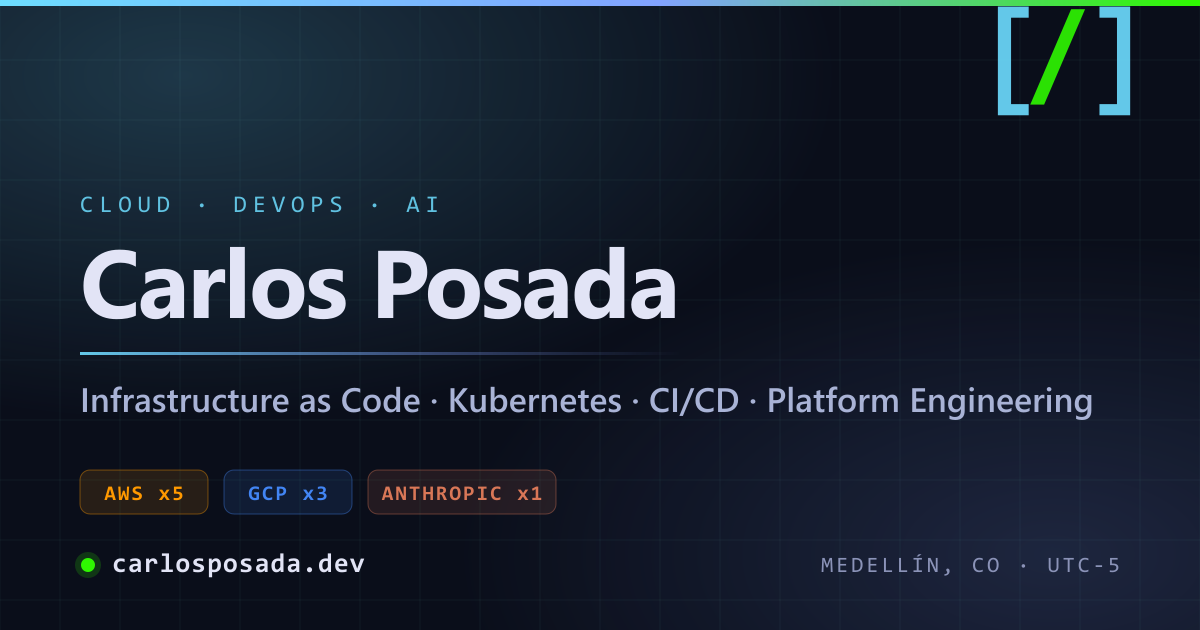
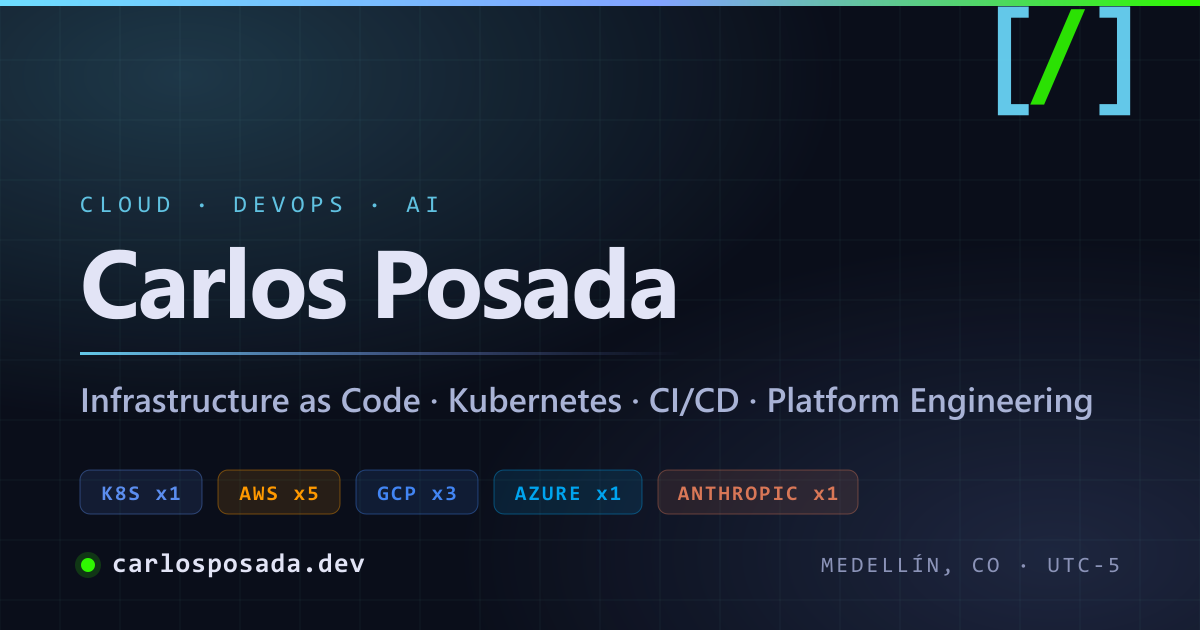
feat: add KCNA and lead the credential wall with the Kubernetes track
Kubernetes and Cloud Native Associate (Linux Foundation), earned September
2026. New issuer group placed first in CERTIFICATIONS — groups render in
the order issuers first appear, so Kubernetes now opens the wall.

Brand colour #5B8DEF, a lightened Kubernetes blue. The official Linux
Foundation hex (#003778) is 1.59:1 against the surface and even Kubernetes
blue (#326CE5) only reaches 4.05:1; the group label is 16px bold, which
WCAG does not count as large text, so it needs 4.5:1. This one is 5.96:1.

Adds a Kubestronaut progress chip: ISSUER_TRACKS declares programmes that
have a goal, and the group header renders an icon, a progress bar and
earned/total computed from the data. Nothing says "1/5" by hand — passing
CKA updates it on its own. The four remaining exams (CKA, CKAD, KCSA, CKS)
join PLANNED_CERTIFICATIONS as ghost cards, the same treatment the
Anthropic track already had.

Two things this uncovered:

- The documented Credly recipe was wrong. It said to build the badge URL
  with a /blob suffix, but KCNA 302s to a 403 there. The real rule is to
  strip the linkedin_thumb_ prefix from the og:image filename and keep
  whatever remains — KCNA_badge.png in this case. CLAUDE.md corrected.
- The OG image had been stale since AZ-104: the cert strip in
  generate-og-image.mjs is hardcoded and was never regenerated, so every
  social preview since 2026-08-15 was missing Microsoft. The strip is now
  a CERT_STRIP array with computed positions that throws if it no longer
[…]

Changed region(s): [[0.0617, 0.7238, 0.7092, 0.8444]]

diff --git a/src/utils/constants.ts b/src/utils/constants.ts
@@ -145,7 +145,14 @@ export interface Certification {
   title: string;
   /** Short credential code shown as badge label */
   code: string;
-  issuer: "AWS" | "Google Cloud" | "Anthropic" | "Microsoft" | "CNCF" | "HashiCorp";
+  issuer:
+    | "AWS"
+    | "Google Cloud"
+    | "Anthropic"
+    | "Microsoft"
+    | "Linux Foundation"
+    | "CNCF"
+    | "HashiCorp";
   /** Public URL where the credential can be verified */
   credentialUrl: string;
   /** Official badge image URL (issuer CDN) */
@@ -171,6 +178,9 @@ const AWS_SVG = "M6.763 10.036c0 .296.032.535.088.71.064.176.144.368.256.576.04.
 // Anthropic SVG path (SimpleIcons)
 const ANTHROPIC_SVG =
   "M17.3041 3.541h-3.6718l6.696 16.918H24Zm-10.6082 0L0 20.459h3.7442l1.3693-3.5527h7.0052l1.3693 3.5528h3.7442L10.5363 3.5409Zm-.3712 10.2232 2.2914-5.9456 2.2914 5.9456Z";
+// Linux Foundation SVG path (SimpleIcons)
+const LINUX_FOUNDATION_SVG =
+  "M4.8 19.2h9.6V24H0V9.6h4.8v9.6zM0 0v7.2h4.8V4.822h14.4V19.2h-2.4V24H24V0H0z";
 // Microsoft SVG path (SimpleIcons) — los cuatro cuadrados del logo
 const MICROSOFT_SVG =
   "M11.4 24H0V12.6h11.4V24zM24 24H12.6V12.6H24V24zM11.4 11.4H0V0h11.4v11.4zm12.6 0H12.6V0H24v11.4z";
@@ -178,6 +188,22 @@ const MICROSOFT_SVG =
 const GCP_SVG = "M12.19 2.38a9.344 9.344 0 0 0-9.234 6.893c.053-.02-.055.013 0 0-3.875 2.551-3.922 8.11-.247 10.941l.006-.007-.007.03a6.717 6.717 0 0 0 4.077 1.356h5.173l.03.03h5.192c6.687.053 9.376-8.605 3.835-12.35a9.365 9.365 0 0 0-2.821-4.552l-.043.043.006-.05A9.344 9.344 0 0 0 12.19 2.38zm-.358 4.146c1.244-.04 2.518.368 3.486 1.15a5.186 5.186 0 0 1 1.862 4.078v.518c3.53-.07 3.53 5.262 0 5.193h-5.193l-.008.009v-.04H6.785a2.59 2.59 0 0 1-1.067-.23h.001a2.597 2.597 0 1 1 3.437-3.437l3.013-3.012A6.747 6.747 0 0 0 8.11 8.24c.018-.01.04-.026.054-.023a5.186 5.186 0 0 1 3.67-1.69z";
 
 export const CERTIFICATIONS: Certification[] = [
+  // ── Linux Foundation ─────────────────────────────────────
+  // Primera del array a propósito: los grupos se pintan en el orden en que
+  // aparece cada emisor, y Kubernetes es el track que se quiere destacar.
+  {
+    id: "lf-kcna",
+    title: "Kubernetes and Cloud Native Associate",
+    code: "KCNA",
+    issuer: "Linux Foundation",
+    credentialUrl: "https://www.credly.com/badges/ce1fb077-5951-494d-89e7-d9c738f1ff95/public_url",
+    // Ojo: esta insignia NO responde con el sufijo /blob (302 → 403).
+    // Hay que conservar el nombre real del archivo. Ver CLAUDE.md.
+    badgeUrl:
+      "https://images.credly.com/size/680x680/images/f28f1d88-428a-47f6-95b5-7da1dd6c1000/KCNA_badge.png",
+    accentColor: "#5B8DEF",
+    svgPath: LINUX_FOUNDATION_SVG,
+  },
   // ── AWS ──────────────────────────────────────────────────
   {
     id: "aws-saa",
@@ -304,6 +330,37 @@ export interface PlannedCertification {
 }
 
 export const PLANNED_CERTIFICATIONS: PlannedCertification[] = [
+  // Linux Foundation — Kubestronaut: exige las 5 certificaciones de Kubernetes
+  // del CNCF (KCNA ya obtenida). Orden real de estudio: CKS requiere una CKA
+  // vigente, así que va al final.
+  {
+    id: "lf-cka",
+    title: "Certified Kubernetes Administrator",
+    code: "CKA",
+    issuer: "Linux Foundation",
+    accentColor: "#5B8DEF",
+  },
+  {
+    id: "lf-ckad",
+    title: "Certified Kubernetes Application Developer",
+    code: "CKAD",
+    issuer: "Linux Foundation",
+    accentColor: "#5B8DEF",
+  },
+  {
+    id: "lf-kcsa",
+    title: "Kubernetes and Cloud Native Security Associate",
+    code: "KCSA",
+    issuer: "Linux Foundation",
+    accentColor: "#5B8DEF",
+  },
+  {
+    id: "lf-cks",
+    title: "Certified Kubernetes Security Specialist",
+    code: "CKS",
+    issuer: "Linux Foundation",
+    accentColor: "#5B8DEF",
+  },
   // Anthropic — Claude Certified track (4 exams, Foundations already earned)
   {
     id: "anthropic-cc-associate",
@@ -683,7 +740,7 @@ export interface NowSection {
 
 export const NOW = {
   /** Fecha de la última revisión de esta página — formato YYYY-MM-DD */
-  updated: "2026-08-06",
+  updated: "2026-09-12",
   intro:
     "A snapshot of what I'm building, breaking and learning right now. Inspired by nownownow.com — updated every few weeks, not a changelog.",
   sections: [
@@ -709,6 +766,11 @@ export const NOW = {
       title: "Learning",
       accent: "secondary",
       items: [
+        {
+          label: "Kubernetes, deliberately and in depth",
+          detail:
+            "Working through the Kubestronaut track — KCNA done, CKA next. Kubernetes is what has been opening doors, so it gets the hours.",
+        },
         {
           label: "EKS across its three node modes",
           detail: "Managed node groups, self-managed nodes and Auto Mode — comparing cost, control and upgrade pain.",
@@ -741,6 +803,10 @@ export const NOW = {
       title: "Next up",
       accent: "primary",
       items: [
+        {
+          label: "CKA, then the rest of the Kubestronaut five",
+          detail: "KCNA earned September 2026. CKA, CKAD, KCSA and CKS still to go.",
+        },
         {
           label: "The remaining Claude Certified track",
           detail: "Associate, Developer and Architect — Professional. Foundations done in July 2026.",

diff --git a/CLAUDE.md b/CLAUDE.md
@@ -172,20 +172,31 @@ La página pública de Credly es una SPA: el `<img>` no se ve en el HTML plano, 
 curl -sL "https://www.credly.com/badges/<BADGE-ID>/public_url" | grep -o 'og:image" content="[^"]*"'
 ```
 
-Del resultado (`https://images.credly.com/images/<IMAGE-ID>/linkedin_thumb_blob`) se
-toma el `<IMAGE-ID>` y se construye el `badgeUrl` en alta resolución:
+El `og:image` tiene la forma `https://images.credly.com/images/<IMAGE-ID>/linkedin_thumb_<ARCHIVO>`.
+**Quitar el prefijo `linkedin_thumb_` y conservar `<ARCHIVO>` tal cual** — es la parte que
+más se falla:
 
 ```
-https://images.credly.com/size/680x680/images/<IMAGE-ID>/blob
+https://images.credly.com/size/680x680/images/<IMAGE-ID>/<ARCHIVO>
 ```
 
-Ojo: algunos badges responden `403` con el sufijo `/image.png` y `200` con `/blob`.
-Verificar siempre con `curl -o /dev/null -w "%{http_code}"` antes de commitear.
+`<ARCHIVO>` suele ser literalmente `blob`, pero **no siempre**: la KCNA es
+`KCNA_badge.png`, y con `/blob` responde `302` → `403`. No asumir `blob`.
 
-### Inventario actual (10 activas)
+Verificar siempre antes de commitear:
+
+```bash
+curl -s -o /dev/null -w "%{http_code}\n" "<BADGE-URL>"
+```
+
+### Inventario actual (11 activas)
+
+El orden de la tabla es el del array, que es el orden en que se pintan los grupos.
+**Linux Foundation va primero a propósito**: Kubernetes es el track que se destaca.
 
 | Emisor | Certificación | Código | Verificador |
 |---|---|---|---|
+| Linux Foundation | Kubernetes and Cloud Native Associate | KCNA | Credly |
 | AWS | Solutions Architect – Associate | SAA-C03 | Credly |
 | AWS | Developer – Associate | DVA-C02 | Credly |
 | AWS | CloudOps Engineer – Associate | SOA-C03 | Credly |
@@ -204,13 +215,24 @@ como cards fantasma (borde punteado, chip `In progress`, sin link, `hourglass_to
 al final del grupo de su emisor. Nunca deben parecer obtenidas: no llevan `badgeUrl`
 ni `credlyUrl`, y no son `<a>`.
 
-Al aprobar una: moverla a `CERTIFICATIONS` con su `credlyUrl` + `badgeUrl` y borrarla
-de `PLANNED_CERTIFICATIONS`. El grupo, el contador y la nota "N on the roadmap" se
-actualizan solos.
+Al aprobar una: moverla a `CERTIFICATIONS` con su `credentialUrl` + `badgeUrl` y borrarla
+de `PLANNED_CERTIFICATIONS`. El grupo, el contador, la nota "N on the roadmap" y el chip de
+progreso del track se actualizan solos.
 
-Hoy hay 3, todas del track de Anthropic (4 exámenes en total, Foundations ya obtenida):
-Claude Certified Associate — Foundations, Claude Certified Developer — Foundations y
-Claude Certified Architect — Professional.
+Hoy hay 7:
+
+- **Linux Foundation (4)** — lo que falta para Kubestronaut: CKA, CKAD, KCSA y CKS.
+- **Anthropic (3)** — del track Claude Certified (4 exámenes, Foundations ya obtenida):
+  Associate — Foundations, Developer — Foundations y Architect — Professional.
+
+### Chip de progreso de track
+
+`ISSUER_TRACKS` en `Certifications.astro` declara programas con meta: hoy sólo
+`Linux Foundation → { label: "Kubestronaut", total: 5 }`. Pinta un chip en la cabecera del
+grupo con icono, barra de progreso y `obtenidas/total`, calculado desde los datos — no hay
+ningún "1/5" escrito a mano. **Kubestronaut exige las cinco certificaciones de Kubernetes
+del CNCF**: KCNA, KCSA, CKA, CKAD y CKS. La barra se oculta por debajo de `sm` y el chip
+cae a su propia línea (la fila de cabecera es `flex-wrap`).
 
 Notas de contexto (no se muestran en el sitio):
 
@@ -224,8 +246,13 @@ Notas de contexto (no se muestran en el sitio):
 - Las certificaciones de AWS caducan (3 años) y las de Anthropic son válidas 12 meses
   con renovación gratuita a tiempo. Hoy el sitio no muestra vigencias; si se añaden,
   usar `expiresDate?: string` y no mostrar nada cuando falte el dato.
+- **KCNA**: obtenida en **septiembre de 2026**. Primera de las cinco de Kubestronaut.
 - Color de marca de Anthropic en el sitio: `#D97757` (el hex oficial de SimpleIcons es
   `#191919`, ilegible sobre fondo oscuro).
+- Color de marca de Linux Foundation en el sitio: `#5B8DEF`, un azul Kubernetes aclarado.
+  El oficial (`#003778`) da **1.59:1** sobre el surface y el de Kubernetes (`#326CE5`)
+  se queda en **4.05:1**; el label del grupo es 16px bold, que WCAG no considera texto
+  grande, así que necesita 4.5:1. `#5B8DEF` llega a 5.96:1.
 - El fallback de badge (si Credly no carga, se muestra el `code`) vive en el `<script>`
   del componente, con `data-cert-badge`. No volver a usar `onerror=` inline: un atributo
   de evento sólo se puede permitir con `'unsafe-inline'` + `'unsafe-hashes'`, mientras que
@@ -348,6 +375,7 @@ Al añadir una página, un servicio o una certificación, revisar también:
 | `src/pages/privacy.astro` | si se añade un servicio externo nuevo (analytics, comentarios, embeds), va documentado ahí |
 | `src/pages/now.astro` → `NOW` en constants | `NOW.updated`: la página se autodeclara desactualizada a los 90 días |
 | `PAGE_KEYWORDS` en `search-index.json.ts` | sinónimos de la página nueva para el command palette |
+| `CERT_STRIP` en `scripts/generate-og-image.mjs` + `npm run og` | la tira de certificaciones de la imagen OG. **Está duplicada a mano**: el script corre en Node plano y no puede importar el TS. Si no se regenera, la preview social miente — estuvo sin Microsoft del 2026-08-15 al 2026-09-12 |
 
 Estos archivos son contenido público: aplica la misma regla de "nada inventado".
 
